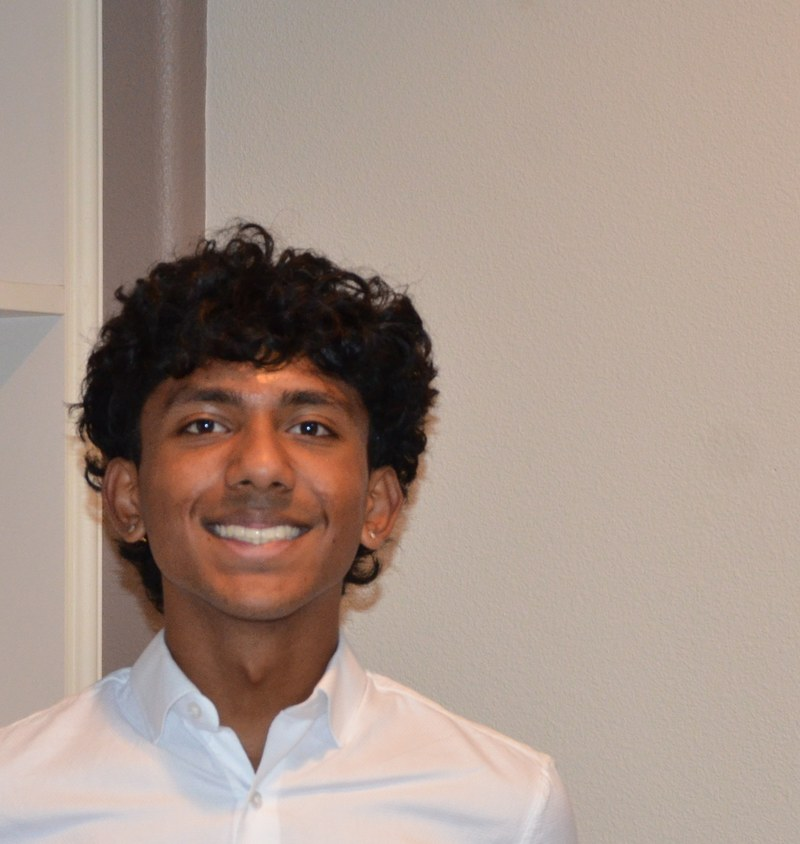
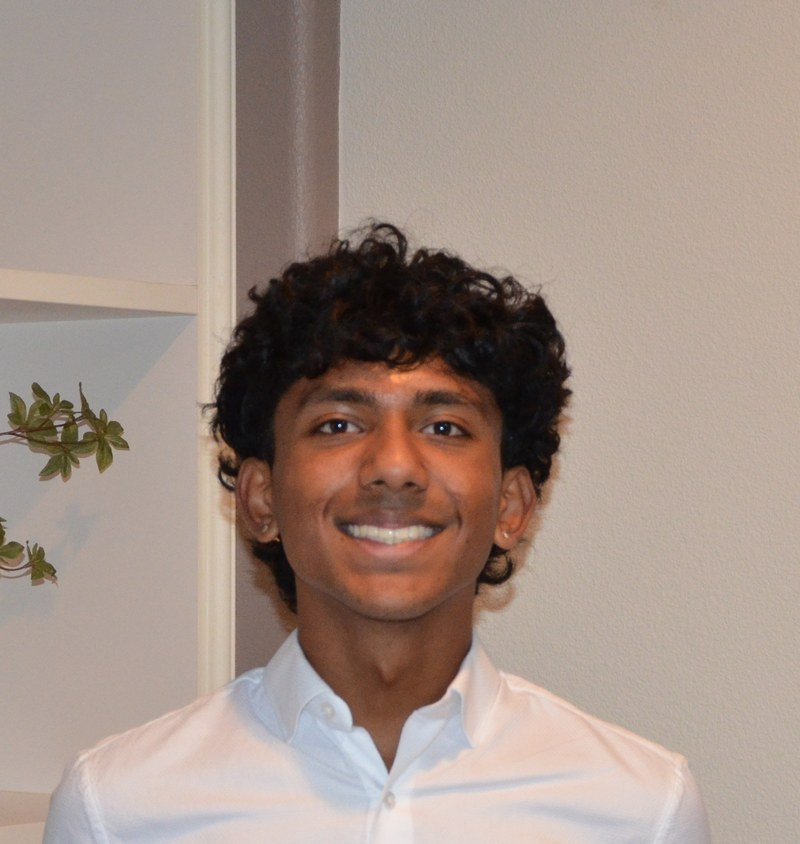
Center face in headshot crop; remove period from hero name

diff --git a/index.html b/index.html
@@ -31,7 +31,7 @@
   <!-- HERO -->
   <section id="hero">
     <div class="hero-content">
-      <h1 class="hero-name">Lochan Reddy.</h1>
+      <h1 class="hero-name">Lochan Reddy</h1>
       <p class="hero-sub">CS + DS at <span class="gold">UC Berkeley</span></p>
       <p class="hero-builder">Builder.</p>
       <div class="hero-cta">
